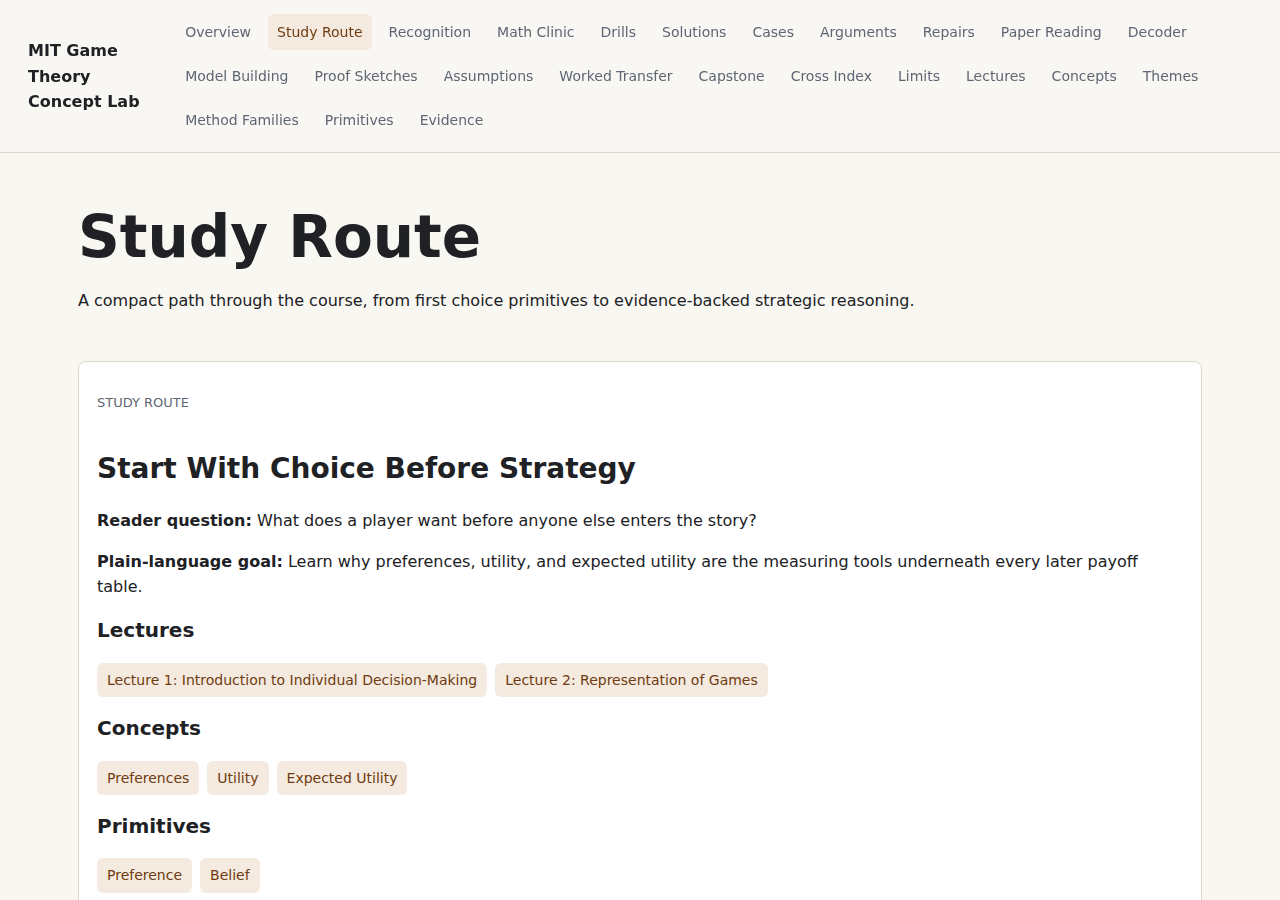
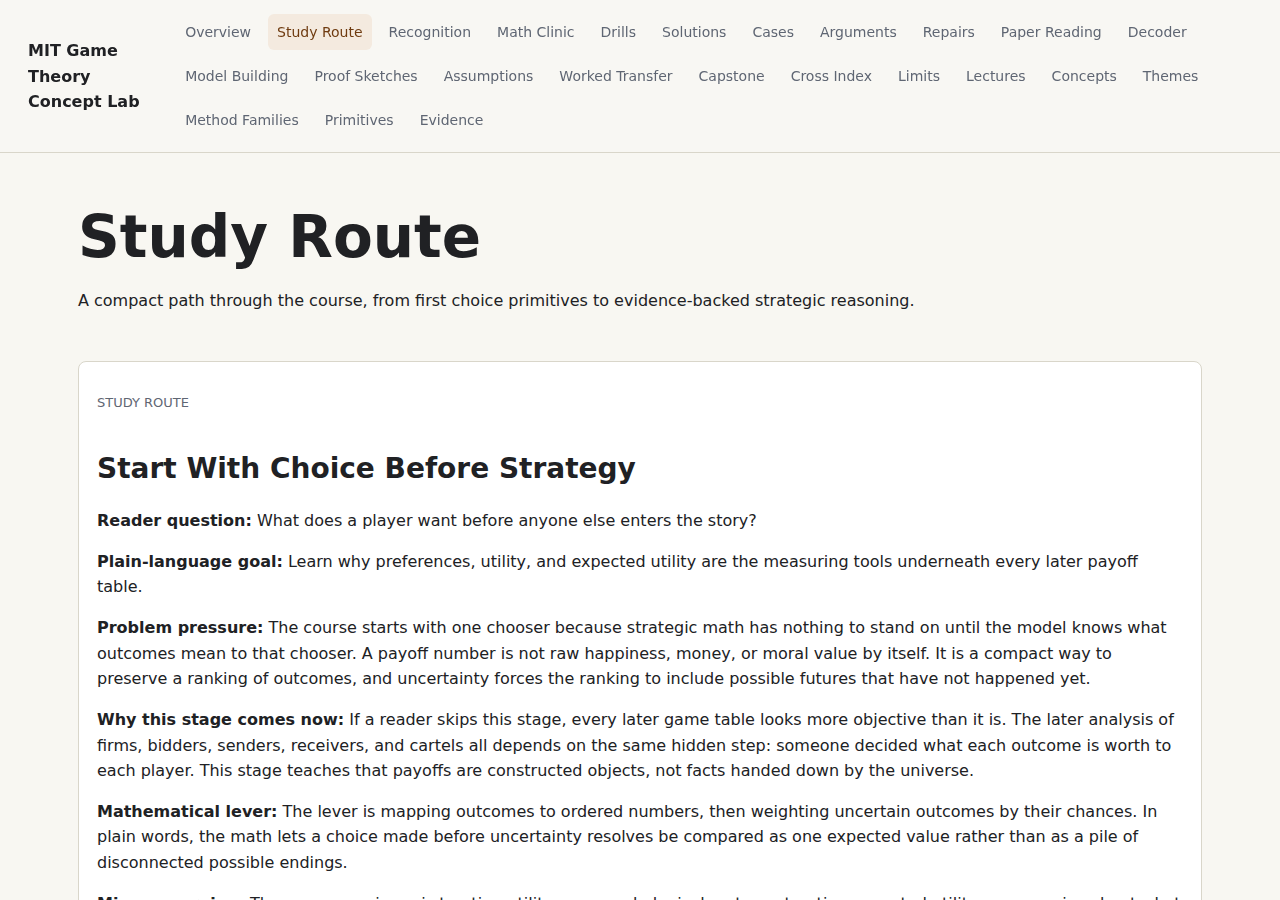
Deepen MIT study route

diff --git a/site/study-route.html b/site/study-route.html
@@ -16,6 +16,11 @@
   <h2>Start With Choice Before Strategy</h2>
   <p><strong>Reader question:</strong> What does a player want before anyone else enters the story?</p>
   <p><strong>Plain-language goal:</strong> Learn why preferences, utility, and expected utility are the measuring tools underneath every later payoff table.</p>
+  <p><strong>Problem pressure:</strong> The course starts with one chooser because strategic math has nothing to stand on until the model knows what outcomes mean to that chooser. A payoff number is not raw happiness, money, or moral value by itself. It is a compact way to preserve a ranking of outcomes, and uncertainty forces the ranking to include possible futures that have not happened yet.</p>
+  <p><strong>Why this stage comes now:</strong> If a reader skips this stage, every later game table looks more objective than it is. The later analysis of firms, bidders, senders, receivers, and cartels all depends on the same hidden step: someone decided what each outcome is worth to each player. This stage teaches that payoffs are constructed objects, not facts handed down by the universe.</p>
+  <p><strong>Mathematical lever:</strong> The lever is mapping outcomes to ordered numbers, then weighting uncertain outcomes by their chances. In plain words, the math lets a choice made before uncertainty resolves be compared as one expected value rather than as a pile of disconnected possible endings.</p>
+  <p><strong>Misuse warning:</strong> The common misuse is treating utility as a psychological meter or treating expected utility as a promise about what will happen. It is neither. It is a disciplined way to compare actions before the uncertain state is known.</p>
+  <p><strong>Bridge to next stage:</strong> Once each player&#x27;s payoff meaning is explicit, the next question is how to represent a situation where several choosers affect one another. That is why the route moves from individual choice to tables, trees, actions, and deletion rules.</p>
   <h3>Lectures</h3><p class="chips"><a class="chip" href="lectures/lecture-01.html">Lecture 1: Introduction to Individual Decision-Making</a><a class="chip" href="lectures/lecture-02.html">Lecture 2: Representation of Games</a></p>
   <h3>Concepts</h3><p class="chips"><a class="chip" href="concepts/preferences.html">Preferences</a><a class="chip" href="concepts/utility.html">Utility</a><a class="chip" href="concepts/expected_utility.html">Expected Utility</a></p>
   <h3>Primitives</h3><p class="chips"><a class="chip" href="primitives.html#preference">Preference</a><a class="chip" href="primitives.html#belief">Belief</a></p>
@@ -24,8 +29,13 @@
 </article><article class="wide-card route-card" id="route-representation">
   <p class="eyebrow">Study route</p>
   <h2>Represent The Strategic Situation</h2>
-  <p><strong>Reader question:</strong> What object keeps everyone&#x27;s choices, timing, and payoffs visible?</p>
+  <p><strong>Reader question:</strong> What object keeps everyone&#x27;s choices, timing, information, and payoffs visible?</p>
   <p><strong>Plain-language goal:</strong> Move from one-person choice to game representation: tables for simultaneous dependence, trees for time and information.</p>
+  <p><strong>Problem pressure:</strong> Strategic confusion usually begins before any equilibrium calculation. The analyst has to decide who chooses, what each person can choose, whether choices happen at the same time, what each player observes, and what each outcome pays. A flat story hides these pieces; a game representation makes them inspectable.</p>
+  <p><strong>Why this stage comes now:</strong> Representation comes before solution because the wrong representation answers the wrong question cleanly. A payoff table is useful when the issue is simultaneous dependence. A tree is needed when timing, later choices, and observed history matter. Dominance and rationalizability then show that some actions can be ruled out before full mutual consistency is demanded.</p>
+  <p><strong>Mathematical lever:</strong> The lever is structured bookkeeping: actions become rows, columns, branches, or information sets; payoffs become entries at outcomes; pruning uses inequalities to remove actions that cannot be defended. The math matters because it prevents the reader from smuggling timing or beliefs into an informal story.</p>
+  <p><strong>Misuse warning:</strong> The common misuse is solving the model that is easiest to draw. A table can make a threat look fixed even when it should be tested later in a tree. A deletion step can also be too strong if it quietly assumes beliefs or ignores a rival action.</p>
+  <p><strong>Bridge to next stage:</strong> After the game object is visible and obviously indefensible actions are removed, the next problem is prediction: can the remaining proposed behavior survive every player&#x27;s incentive to change alone in the represented situation?</p>
   <h3>Lectures</h3><p class="chips"><a class="chip" href="lectures/lecture-02.html">Lecture 2: Representation of Games</a><a class="chip" href="lectures/lecture-03.html">Lecture 3: Dominance</a><a class="chip" href="lectures/lecture-04.html">Lecture 4: Rationalizability</a></p>
   <h3>Concepts</h3><p class="chips"><a class="chip" href="concepts/strategic_form_games.html">Strategic Form Games</a><a class="chip" href="concepts/extensive_form_games.html">Extensive Form Games</a><a class="chip" href="concepts/dominance.html">Dominance</a><a class="chip" href="concepts/iterated_deletion.html">Iterated Deletion</a><a class="chip" href="concepts/rationalizability.html">Rationalizability</a></p>
   <h3>Primitives</h3><p class="chips"><a class="chip" href="primitives.html#payoff_mapping">Payoff Mapping</a><a class="chip" href="primitives.html#pruning">Pruning</a><a class="chip" href="primitives.html#belief">Belief</a></p>
@@ -36,6 +46,11 @@
   <h2>Make Predictions Survive Deviations</h2>
   <p><strong>Reader question:</strong> Can each player look at the proposed outcome and still want to stay put?</p>
   <p><strong>Plain-language goal:</strong> Understand equilibrium as a mutual consistency test, then see why conflict and randomization require sharper versions of the same idea.</p>
+  <p><strong>Problem pressure:</strong> A strategic prediction is fragile because every player may want to change once they see what the others are doing. The course therefore needs a stability test. The point is not to find the nicest outcome, the fairest outcome, or the outcome with the largest total payoff. The point is to ask whether anyone has a unilateral reason to move away.</p>
+  <p><strong>Why this stage comes now:</strong> Equilibrium comes after representation because best responses need a defined action set and payoff table. It also comes before dynamic and information-rich models because Nash gives the base deviation idea that later concepts repair: subgame perfection adds later-history checks, Bayesian equilibrium adds type-contingent beliefs, and mixed strategies handle situations where predictable pure actions are exploitable.</p>
+  <p><strong>Mathematical lever:</strong> The lever is the best-response comparison. Hold everyone else fixed, ask what one player would choose, and require the proposed outcome to pass that check for every player. In zero-sum or adversarial settings, randomization can be the stable plan because it removes the opponent&#x27;s obvious target.</p>
+  <p><strong>Misuse warning:</strong> The common misuse is reading equilibrium as endorsement. A Nash equilibrium can be inefficient, unfair, or unpleasant. It can also be one of several equilibria. Stability under unilateral deviation is a narrower claim than social goodness or uniqueness.</p>
+  <p><strong>Bridge to next stage:</strong> Once the reader understands one-shot stability, the next question is whether a plan remains stable at future decision points. That is where threats, promises, bargaining, finite endings, and repeated punishment enter.</p>
   <h3>Lectures</h3><p class="chips"><a class="chip" href="lectures/lecture-05.html">Lecture 5: Nash Equilibrium</a><a class="chip" href="lectures/lecture-07.html">Lecture 7: Zero-Sum Games</a></p>
   <h3>Concepts</h3><p class="chips"><a class="chip" href="concepts/best_response.html">Best Response</a><a class="chip" href="concepts/nash_equilibrium.html">Nash Equilibrium</a><a class="chip" href="concepts/mixed_strategies.html">Mixed Strategies</a><a class="chip" href="concepts/zero_sum_games.html">Zero-Sum Games</a><a class="chip" href="concepts/minimax.html">Minimax</a></p>
   <h3>Primitives</h3><p class="chips"><a class="chip" href="primitives.html#best_response">Best Response</a><a class="chip" href="primitives.html#mutual_consistency">Mutual Consistency</a></p>
@@ -46,6 +61,11 @@
   <h2>Test Time, Threats, And Patience</h2>
   <p><strong>Reader question:</strong> Will a promised future action still make sense when the future arrives?</p>
   <p><strong>Plain-language goal:</strong> Use backward reasoning, subgame checks, bargaining logic, and repeated-game discipline to separate credible plans from empty announcements.</p>
+  <p><strong>Problem pressure:</strong> Time creates a special kind of strategic trap: a person can announce a future action today that will no longer be attractive when the future arrives. The course uses dynamic games to make that future moment visible. It then uses repeated games to show when the future can discipline the present instead of merely undermining promises.</p>
+  <p><strong>Why this stage comes now:</strong> This stage follows equilibrium because dynamic games need equilibrium logic at more than one point in the tree. A threat must pass the later best-response test, not just the initial announcement test. Repetition then changes the calculation by adding future rewards and punishments, but only when monitoring, patience, and credible punishment are strong enough.</p>
+  <p><strong>Mathematical lever:</strong> The levers are backward recursion and discounting. Backward recursion solves later decisions before earlier ones. Discounting compares today&#x27;s temptation with tomorrow&#x27;s punishment by shrinking future payoffs according to how much players care about later periods.</p>
+  <p><strong>Misuse warning:</strong> The common misuse is saying either all threats work because they were announced or all cooperation works because the game repeats. The course is stricter: threats require future credibility, and repeated cooperation requires an incentive inequality that actually beats deviation.</p>
+  <p><strong>Bridge to next stage:</strong> After time is handled, the route turns to hidden information. Future incentives are not enough when players do not know types, costs, values, histories, signals, or what others have heard.</p>
   <h3>Lectures</h3><p class="chips"><a class="chip" href="lectures/lecture-08.html">Lecture 8: Backward Induction</a><a class="chip" href="lectures/lecture-09.html">Lecture 9: Negotiation</a><a class="chip" href="lectures/lecture-10.html">Lecture 10: Subgame-Perfect Nash Equilibrium</a><a class="chip" href="lectures/lecture-11.html">Lecture 11: One-Shot Deviation Principle and Bargaining</a><a class="chip" href="lectures/lecture-12.html">Lecture 12: Finitely Repeated Games</a><a class="chip" href="lectures/lecture-13.html">Lecture 13: Infinitely Repeated Games</a><a class="chip" href="lectures/lecture-14.html">Lecture 14: Folk Theorem</a><a class="chip" href="lectures/lecture-15.html">Lecture 15: Implicit Cartels</a></p>
   <h3>Concepts</h3><p class="chips"><a class="chip" href="concepts/backward_induction.html">Backward Induction</a><a class="chip" href="concepts/subgame_perfection.html">Subgame-Perfect Nash Equilibrium</a><a class="chip" href="concepts/one_shot_deviation.html">One-Shot Deviation Principle</a><a class="chip" href="concepts/bargaining.html">Bargaining</a><a class="chip" href="concepts/finitely_repeated_games.html">Finitely Repeated Games</a><a class="chip" href="concepts/infinitely_repeated_games.html">Infinitely Repeated Games</a><a class="chip" href="concepts/folk_theorem.html">Folk Theorem</a><a class="chip" href="concepts/implicit_cartels.html">Implicit Cartels</a></p>
   <h3>Primitives</h3><p class="chips"><a class="chip" href="primitives.html#backward_recursion">Backward Recursion</a><a class="chip" href="primitives.html#discounting">Discounting</a><a class="chip" href="primitives.html#payoff_mapping">Payoff Mapping</a></p>
@@ -56,6 +76,11 @@
   <h2>Reason With Hidden Information</h2>
   <p><strong>Reader question:</strong> What changes when players know different values, costs, types, histories, or facts that other players cannot directly see?</p>
   <p><strong>Plain-language goal:</strong> Track types, beliefs, updating, signaling, cheap talk, and common knowledge without treating beliefs as arbitrary story glue.</p>
+  <p><strong>Problem pressure:</strong> Many strategic situations are hard because behavior is also evidence. A warranty may be both a promise and a clue about quality. A message may be useful or empty depending on the speaker&#x27;s incentives. A public announcement may matter even when the underlying fact was already privately known.</p>
+  <p><strong>Why this stage comes now:</strong> Information comes after the basic timing and equilibrium ideas because hidden information makes every earlier object conditional. Actions can depend on type, beliefs must be updated from observed behavior, and equilibrium must say what players believe at information sets as well as what they choose.</p>
+  <p><strong>Mathematical lever:</strong> The levers are beliefs, Bayes-style updating, incentive compatibility, and knowledge recursion. Beliefs represent uncertainty over hidden types or states. Incentive compatibility asks whether the predicted type really wants to take the predicted action. Knowledge recursion tracks the layers of what everyone knows about what everyone knows.</p>
+  <p><strong>Misuse warning:</strong> The common misuse is treating beliefs as free story glue. In a disciplined model, beliefs need a source: priors, signals, observed actions, public announcements, or equilibrium restrictions. If any type can cheaply imitate the same signal, the signal does not reveal type by magic.</p>
+  <p><strong>Bridge to next stage:</strong> Once hidden information is visible, rule design becomes the natural next step. Auctions, screening, and market mechanisms are attempts to build rules that make privately informed people reveal or act on information in useful ways.</p>
   <h3>Lectures</h3><p class="chips"><a class="chip" href="lectures/lecture-16.html">Lecture 16: Bayesian Games</a><a class="chip" href="lectures/lecture-17.html">Lecture 17: Bayesian Nash Equilibrium: Applications</a><a class="chip" href="lectures/lecture-21.html">Lecture 21: Perfect Bayesian Equilibrium</a><a class="chip" href="lectures/lecture-22.html">Lecture 22: Signaling</a><a class="chip" href="lectures/lecture-24.html">Lecture 24: Cheap Talk</a><a class="chip" href="lectures/lecture-25.html">Lecture 25: Common Knowledge</a></p>
   <h3>Concepts</h3><p class="chips"><a class="chip" href="concepts/bayesian_games.html">Bayesian Games</a><a class="chip" href="concepts/types_and_beliefs.html">Types And Beliefs</a><a class="chip" href="concepts/bayesian_nash_equilibrium.html">Bayesian Nash Equilibrium</a><a class="chip" href="concepts/perfect_bayesian_equilibrium.html">Perfect Bayesian Equilibrium</a><a class="chip" href="concepts/signaling.html">Signaling</a><a class="chip" href="concepts/cheap_talk.html">Cheap Talk</a><a class="chip" href="concepts/common_knowledge.html">Common Knowledge</a></p>
   <h3>Primitives</h3><p class="chips"><a class="chip" href="primitives.html#belief">Belief</a><a class="chip" href="primitives.html#incentive_compatibility">Incentive Compatibility</a><a class="chip" href="primitives.html#knowledge_recursion">Knowledge Recursion</a></p>
@@ -66,6 +91,11 @@
   <h2>Read Rules As Incentive Machines</h2>
   <p><strong>Reader question:</strong> How do auction and market rules change what strategic people choose?</p>
   <p><strong>Plain-language goal:</strong> See mechanism and auction topics as design problems: the rule must make the desired behavior privately sensible.</p>
+  <p><strong>Problem pressure:</strong> Rules do not merely describe a market; they shape what selfish participants find worth doing. A payment rule changes bids. A ranking rule changes ad design. A screening rule changes who participates. The design problem is to make the private best response line up with the public or platform goal.</p>
+  <p><strong>Why this stage comes now:</strong> Design belongs near the end because it uses almost every previous primitive. The designer needs payoffs, beliefs, incentives, information, and equilibrium responses. Auctions and screening are not isolated topics; they are places where the course asks how rules convert hidden values and strategic actions into allocation and payment outcomes.</p>
+  <p><strong>Mathematical lever:</strong> The levers are allocation rules, payment rules, expected utility, and incentive compatibility. In plain language, the math separates who gets the object, what they pay, what they privately know, and whether telling the truth or bidding in a certain way is actually in their interest.</p>
+  <p><strong>Misuse warning:</strong> The common misuse is trusting the label of a mechanism. Calling something a second-price auction, ad auction, or screening device is not enough. The reader must inspect the actual allocation rule, payment rule, information environment, and deviation opportunities.</p>
+  <p><strong>Bridge to next stage:</strong> This stage closes the route by turning game theory into model-reading discipline. A reader should now be able to open a new paper or system design and ask what choices, incentives, beliefs, timing, and rules are doing the real work.</p>
   <h3>Lectures</h3><p class="chips"><a class="chip" href="lectures/lecture-06.html">Lecture 6: Imperfect Competition</a><a class="chip" href="lectures/lecture-18.html">Lecture 18: Auctions</a><a class="chip" href="lectures/lecture-19.html">Lecture 19: Revenue Equivalence</a><a class="chip" href="lectures/lecture-20.html">Lecture 20: Ad Auctions</a><a class="chip" href="lectures/lecture-23.html">Lecture 23: Bargaining with Incomplete Information</a></p>
   <h3>Concepts</h3><p class="chips"><a class="chip" href="concepts/imperfect_competition.html">Imperfect Competition</a><a class="chip" href="concepts/screening_and_adverse_selection.html">Screening And Adverse Selection</a><a class="chip" href="concepts/auctions.html">Auctions</a><a class="chip" href="concepts/revenue_equivalence.html">Revenue Equivalence</a><a class="chip" href="concepts/ad_auctions.html">Ad Auctions</a></p>
   <h3>Primitives</h3><p class="chips"><a class="chip" href="primitives.html#payoff_mapping">Payoff Mapping</a><a class="chip" href="primitives.html#incentive_compatibility">Incentive Compatibility</a><a class="chip" href="primitives.html#belief">Belief</a></p>

diff --git a/scripts/audit_editorial_quality.py b/scripts/audit_editorial_quality.py
@@ -239,7 +239,17 @@ def main() -> int:
     derivation_words = [words(" ".join(str(d.get(f, "")) for f in ["everyday_setup", "equation", "symbol_by_symbol", "why_it_matters", "common_misread"]) + " " + " ".join(d.get("derivation_steps", []))) for d in derivations]
     family_words = [words(" ".join(str(f.get(k, "")) for k in ["family_problem", "first_principles_pattern", "mathematical_signature", "why_family_matters", "family_walkthrough", "where_analogy_breaks", "lecture_evidence_chain", "paper_family_treatment"])) for f in families]
     route_html = (SITE / "study-route.html").read_text(encoding="utf-8") if (SITE / "study-route.html").exists() else ""
-    route_words = [words(" ".join(str(item.get(k, "")) for k in ["reader_question", "plain_language_goal", "checkpoint"])) for item in route]
+    route_fields = [
+        "reader_question",
+        "plain_language_goal",
+        "problem_pressure",
+        "why_this_stage_comes_now",
+        "mathematical_lever",
+        "misuse_warning",
+        "bridge_to_next_stage",
+        "checkpoint",
+    ]
+    route_words = [words(" ".join(str(item.get(k, "")) for k in route_fields)) for item in route]
     route_lecture_links = 0
     route_concept_links = 0
     route_primitive_links = 0
@@ -255,7 +265,8 @@ def main() -> int:
         route_concept_links += len(linked_concepts)
         route_primitive_links += len(linked_primitives)
         route_evidence_links += len(linked_evidence)
-        if words(" ".join(str(item.get(k, "")) for k in ["reader_question", "plain_language_goal", "checkpoint"])) < 35:
+        route_text = " ".join(str(item.get(k, "")) for k in route_fields)
+        if words(route_text) < 210:
             errors.append(f"study route {item['id']} has shallow orientation text")
         if len(linked_lectures) != len(item.get("lectures", [])):
             errors.append(f"study route {item['id']} missing lecture links")

diff --git a/scripts/validate_site.py b/scripts/validate_site.py
@@ -133,11 +133,18 @@ def main() -> int:
     for item in route:
         if f'id="{item["id"]}"' not in route_html:
             errors.append(f"study route item not rendered: {item['id']}")
-        for field in ["reader_question", "plain_language_goal", "checkpoint"]:
-            if words(item.get(field, "")) < 10:
+        for field in ["reader_question", "plain_language_goal", "problem_pressure", "why_this_stage_comes_now", "mathematical_lever", "misuse_warning", "bridge_to_next_stage", "checkpoint"]:
+            minimum = 10 if field in ["reader_question", "plain_language_goal", "checkpoint"] else 30
+            if words(item.get(field, "")) < minimum:
                 errors.append(f"study route {item['id']} has shallow {field}")
             elif html.escape(item[field], quote=True) not in route_html:
                 errors.append(f"study route {item['id']} {field} not rendered")
+        combined = " ".join(
+            str(item.get(field, ""))
+            for field in ["reader_question", "plain_language_goal", "problem_pressure", "why_this_stage_comes_now", "mathematical_lever", "misuse_warning", "bridge_to_next_stage", "checkpoint"]
+        )
+        if words(combined) < 210:
+            errors.append(f"study route {item['id']} has shallow combined route treatment")
         for lecture_id in item.get("lectures", []):
             if lecture_id not in lecture_by_id:
                 errors.append(f"study route {item['id']} references missing lecture: {lecture_id}")

diff --git a/scripts/build_site.py b/scripts/build_site.py
@@ -271,6 +271,11 @@ def build_study_route(route, lecture_by_id, concept_by_id, primitive_by_id, ev_b
   <h2>{esc(item["title"])}</h2>
   <p><strong>Reader question:</strong> {esc(item["reader_question"])}</p>
   <p><strong>Plain-language goal:</strong> {esc(item["plain_language_goal"])}</p>
+  <p><strong>Problem pressure:</strong> {esc(item["problem_pressure"])}</p>
+  <p><strong>Why this stage comes now:</strong> {esc(item["why_this_stage_comes_now"])}</p>
+  <p><strong>Mathematical lever:</strong> {esc(item["mathematical_lever"])}</p>
+  <p><strong>Misuse warning:</strong> {esc(item["misuse_warning"])}</p>
+  <p><strong>Bridge to next stage:</strong> {esc(item["bridge_to_next_stage"])}</p>
   <h3>Lectures</h3><p class="chips">{lecture_links}</p>
   <h3>Concepts</h3><p class="chips">{concept_links}</p>
   <h3>Primitives</h3><p class="chips">{primitive_links}</p>

diff --git a/analysis/audits/site-render-report.md b/analysis/audits/site-render-report.md
@@ -9,7 +9,7 @@ Playwright render audit for representative desktop and mobile pages.
 ## Screenshots
 
 - desktop-index: `index.html`, viewport 1280,900, captured 1280x900, 133177 bytes
-- desktop-study-route: `study-route.html`, viewport 1280,900, captured 1280x900, 93269 bytes
+- desktop-study-route: `study-route.html`, viewport 1280,900, captured 1280x900, 149361 bytes
 - desktop-recognition: `recognition.html`, viewport 1280,900, captured 1280x900, 151160 bytes
 - desktop-math-clinic: `math-clinic.html`, viewport 1280,900, captured 1280x900, 144019 bytes
 - desktop-drills: `drills.html`, viewport 1280,900, captured 1280x900, 133988 bytes

diff --git a/analysis/audits/editorial-quality-report.md b/analysis/audits/editorial-quality-report.md
@@ -24,7 +24,7 @@ This static audit checks explanatory depth, required teaching sections, evidence
 - Method-family primitive links: 6
 - Method-family evidence links: 6
 - Study route cards: 6
-- Study route words: min 49, max 58
+- Study route words: min 273, max 296
 - Study route lecture links: 26
 - Study route concept links: 33
 - Study route primitive links: 16
